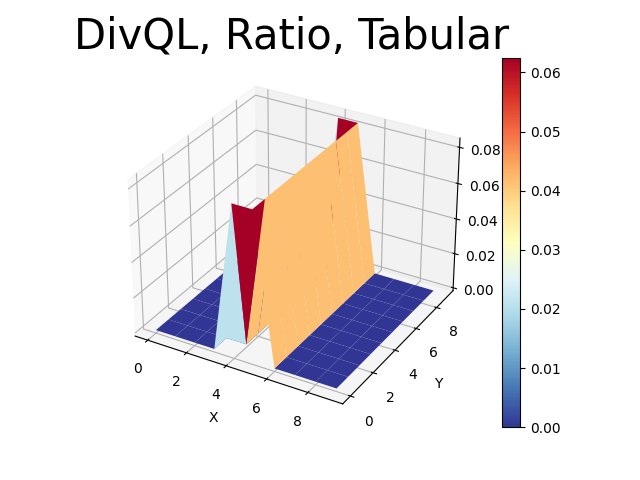
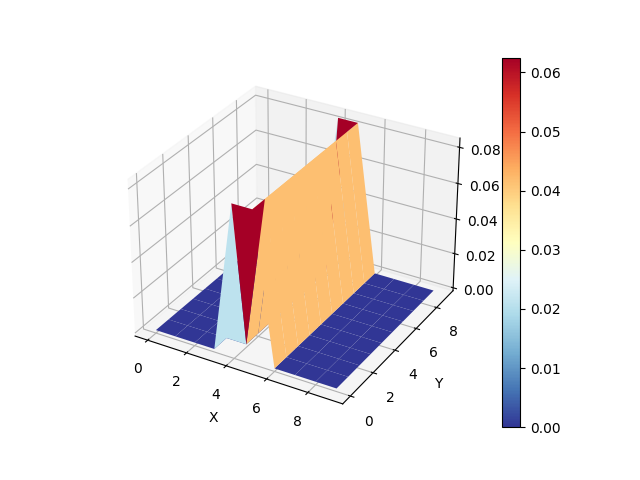
random

Changed region(s): [[0.5625, 0.0312, 0.8125, 0.125], [0.125, 0.0312, 0.3438, 0.125], [0.3438, 0.0312, 0.5312, 0.125]]

diff --git a/MAQL/Div_QL/plot_DivQL.py b/MAQL/Div_QL/plot_DivQL.py
@@ -81,6 +81,6 @@ for z in range(z_no):
     ax.set_zlabel('Occupancy Measure')
 
 
-    ax.set_title("DivQL, Ratio, Tabular", fontsize = 30)
+    #ax.set_title("DivQL, Ratio, Tabular", fontsize = 30)
     # Show the plot
     plt.savefig("gradual_models/10x10/ratio_fig/DivQL_ratio_" + str(z) )
